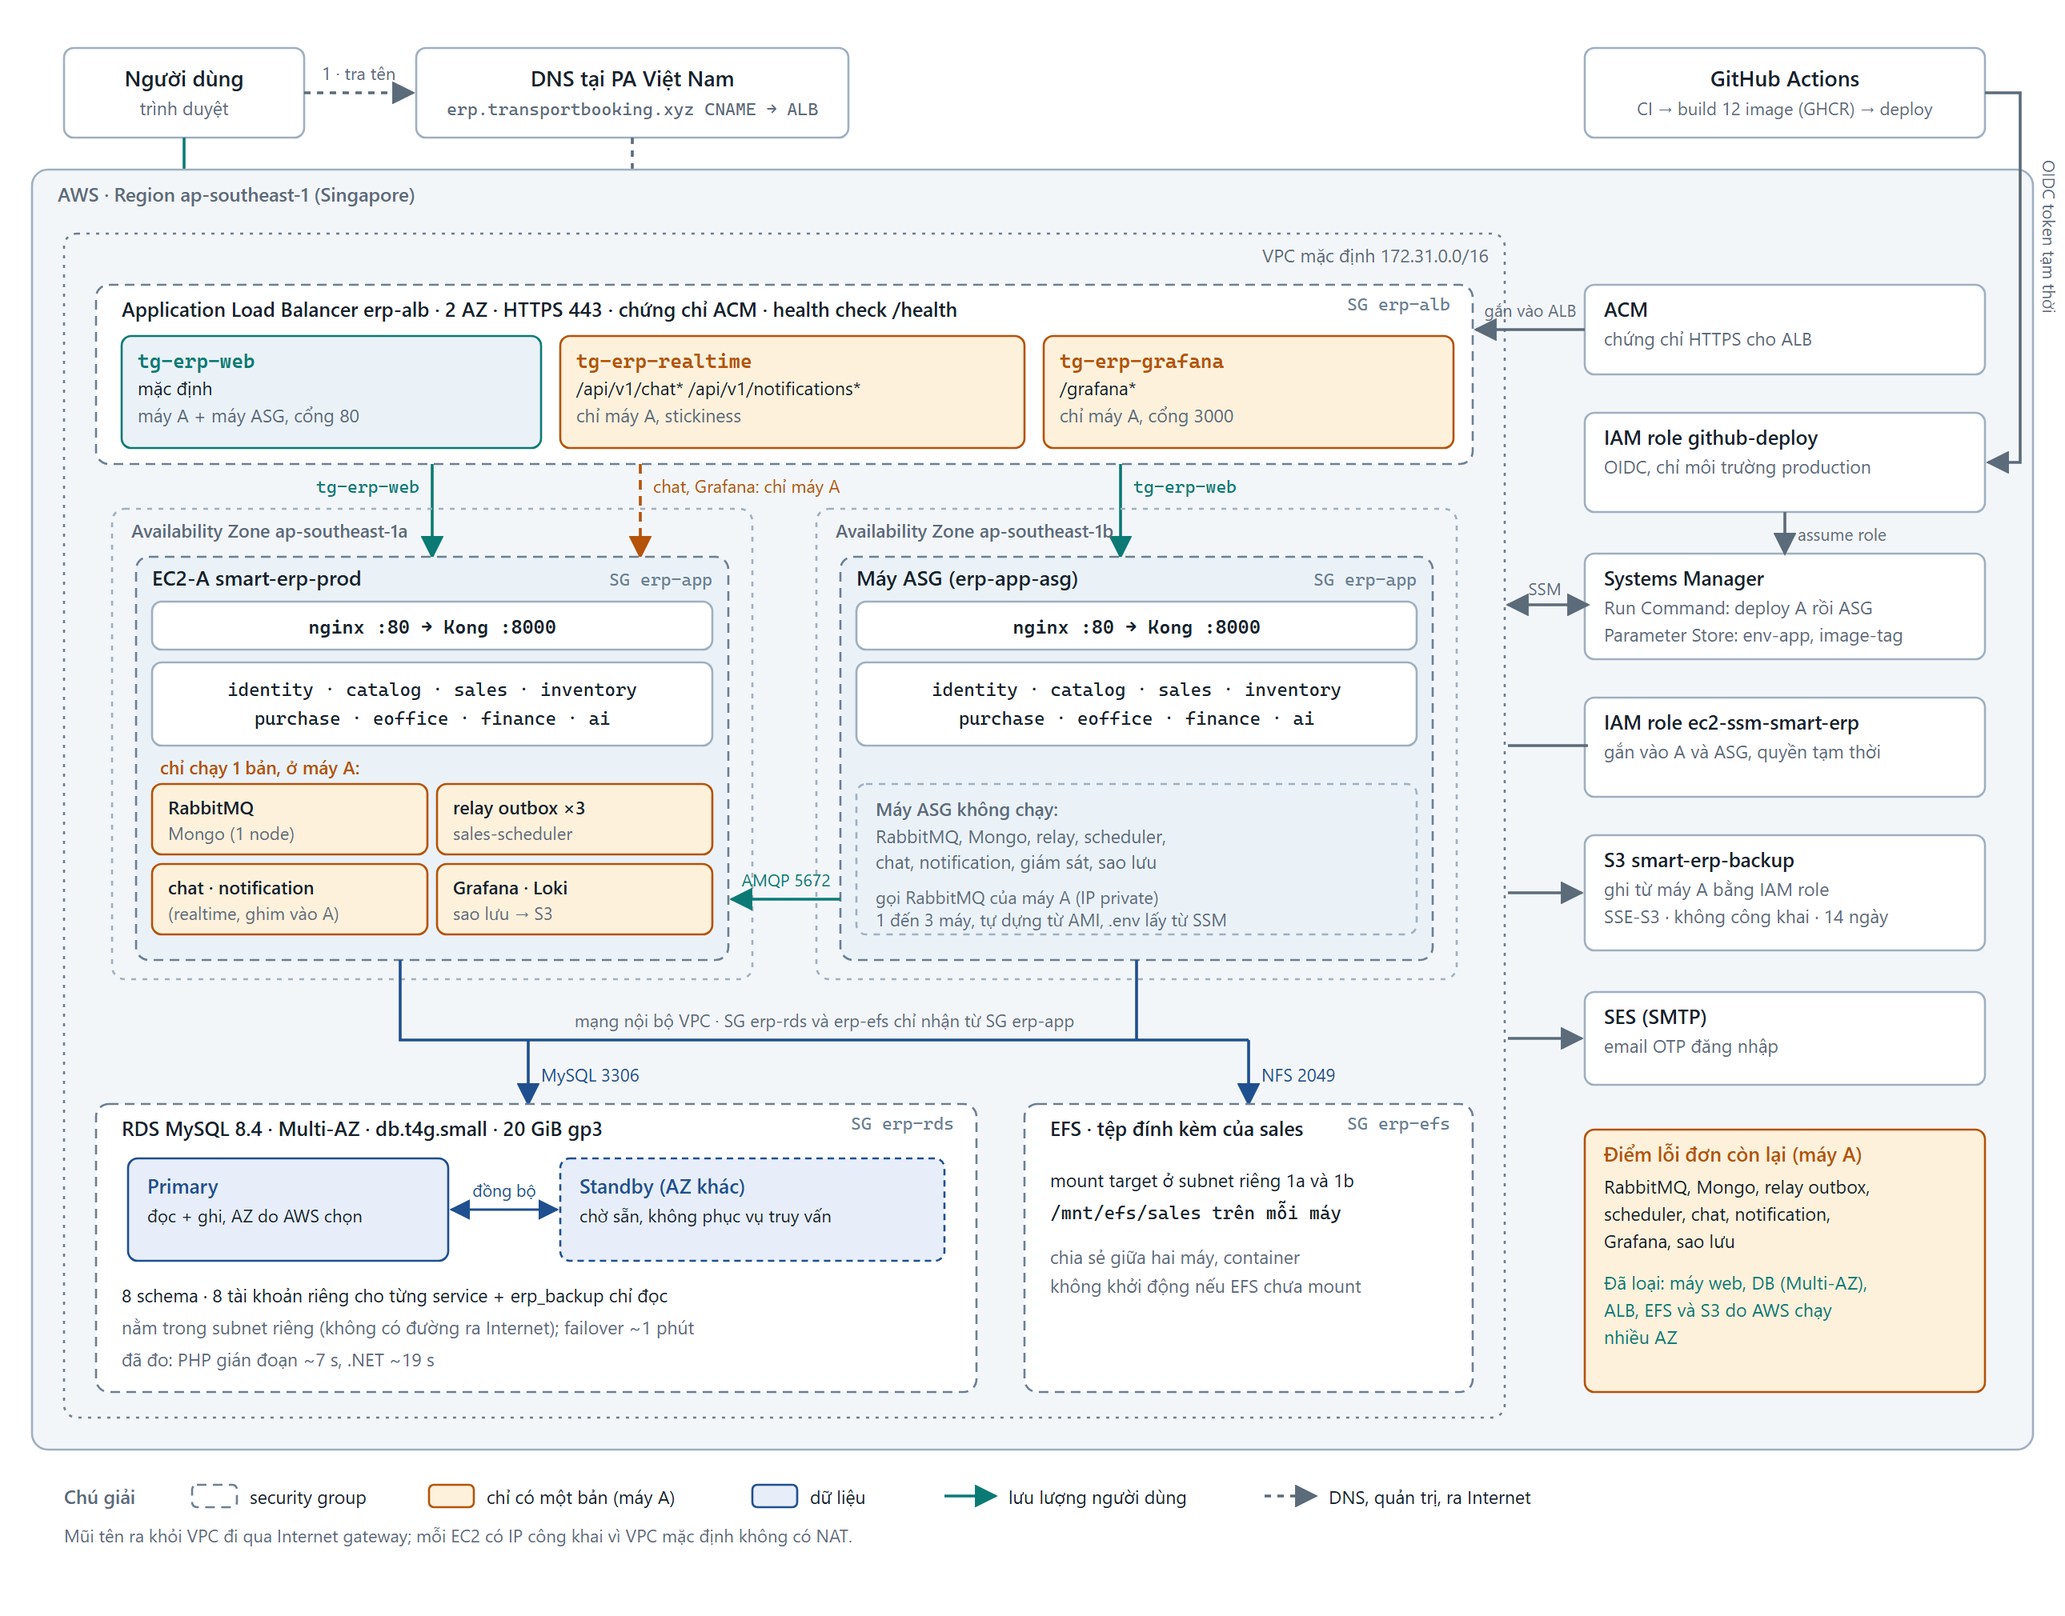
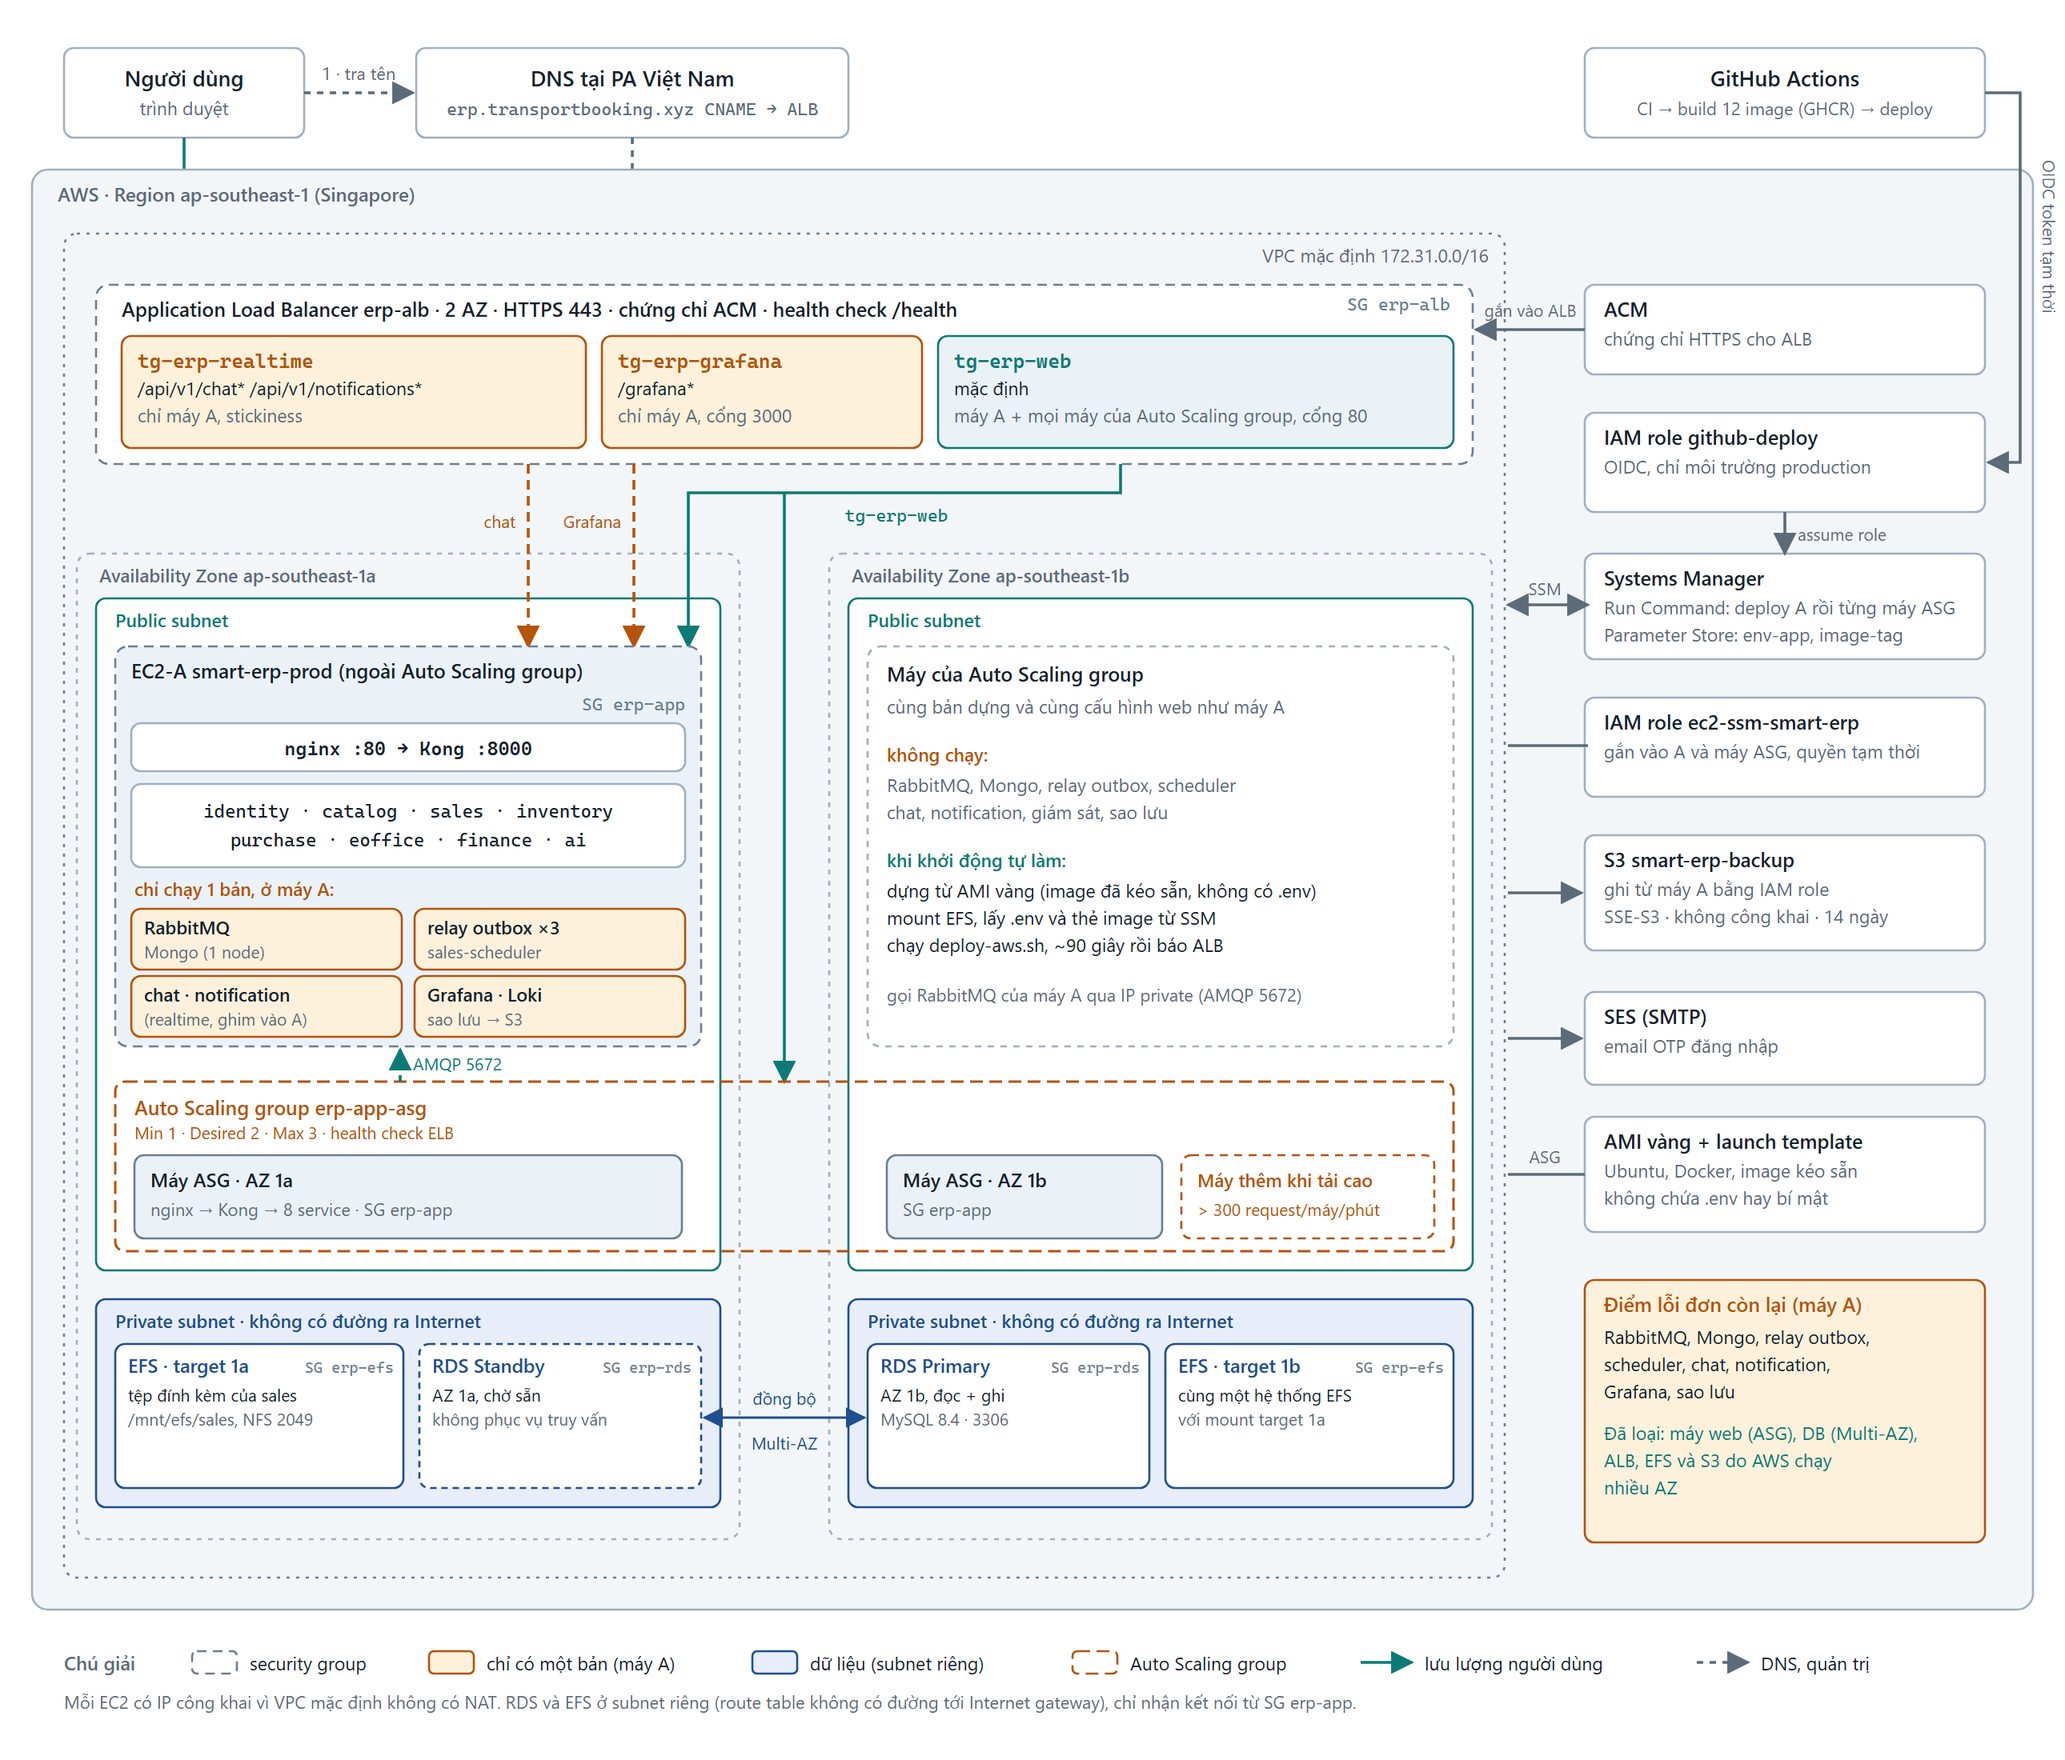
docs(learning): vẽ lại sơ đồ AWS chi tiết (SVG, PNG) theo kiến trúc hiện tại: ASG, subnet riêng, hai AZ

diff --git a/docs/learning/defense/08-devops-aws.md b/docs/learning/defense/08-devops-aws.md
@@ -5,7 +5,7 @@
 
 ## 1. Bức tranh tổng thể (kiến trúc hiện tại)
 
-![Kiến trúc AWS của Smart ERP: ALB, hai EC2 ở hai AZ, RDS Multi-AZ, EFS](images/aws-ha-architecture.png)
+![Kiến trúc AWS của Smart ERP: ALB, EC2-A và Auto Scaling group ở hai AZ, RDS Multi-AZ và EFS trong subnet riêng](images/aws-ha-architecture.png)
 
 *Hình 1. Kiến trúc AWS hiện tại. Bản vector: [aws-ha-architecture.svg](images/aws-ha-architecture.svg). Bản chữ của cùng sơ đồ nằm ngay dưới.*
 
